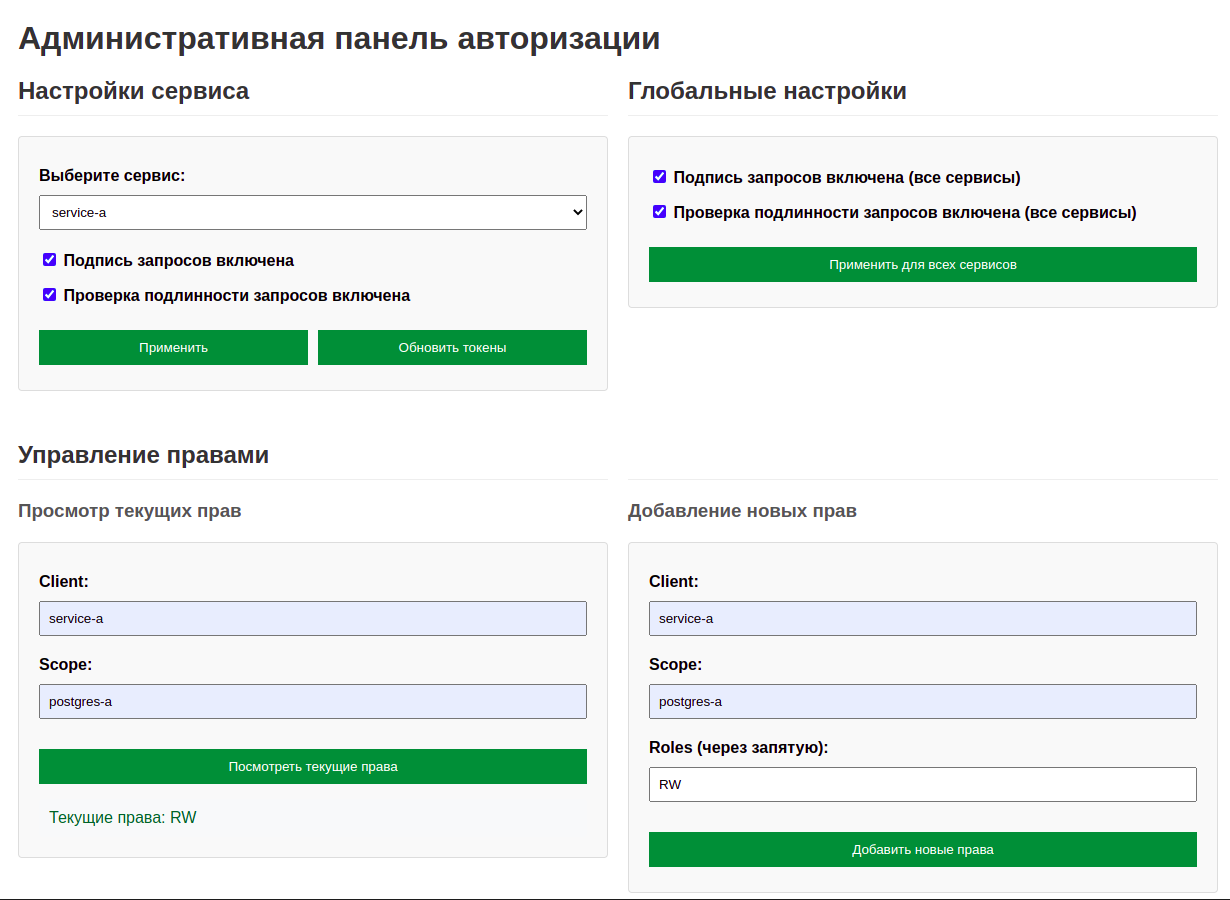
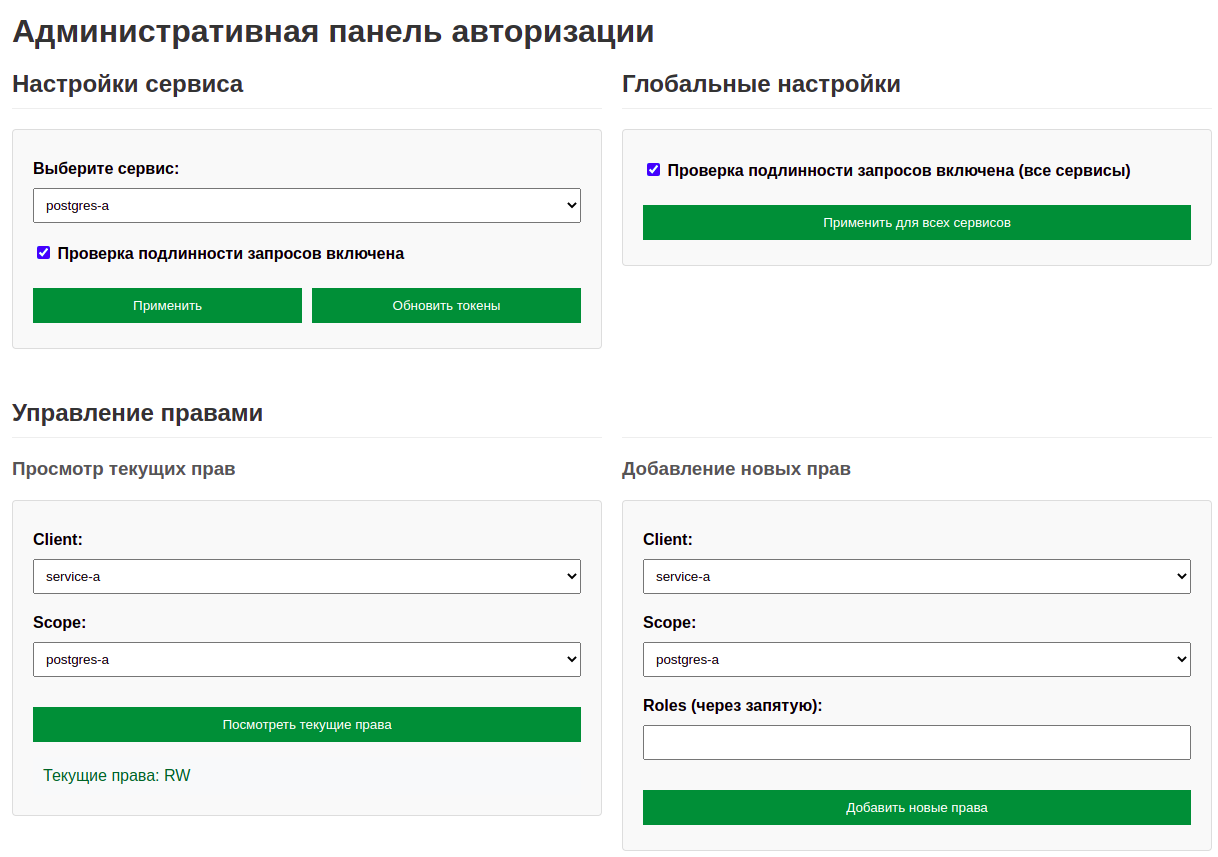
[iter12]: fix ui according to pred-def

diff --git a/src/auth-ui/templates/index.html b/src/auth-ui/templates/index.html
@@ -143,13 +143,6 @@
 
                     <div class="form-group">
                         <label>
-                            <input type="checkbox" name="sign" {% if sign_enabled %}checked{% endif %}>
-                            Подпись запросов включена
-                        </label>
-                    </div>
-
-                    <div class="form-group">
-                        <label>
                             <input type="checkbox" name="verify" {% if verify_enabled %}checked{% endif %}>
                             Проверка подлинности запросов включена
                         </label>
@@ -167,13 +160,6 @@
             <div class="section">
                 <h2>Глобальные настройки</h2>
                 <form action="/update_all" method="post">
-                    <div class="form-group">
-                        <label>
-                            <input type="checkbox" name="sign_all" checked>
-                            Подпись запросов включена (все сервисы)
-                        </label>
-                    </div>
-
                     <div class="form-group">
                         <label>
                             <input type="checkbox" name="verify_all" checked>
@@ -195,12 +181,20 @@
                 <form id="permissionsForm">
                     <div class="form-group">
                         <label>Client:</label>
-                        <input type="text" name="client" required>
+                        <select name="client" required>
+                            {% for service in services %}
+                            <option value="{{ service }}">{{ service }}</option>
+                            {% endfor %}
+                        </select>
                     </div>
 
                     <div class="form-group">
                         <label>Scope:</label>
-                        <input type="text" name="scope" required>
+                        <select name="scope" required>
+                            {% for service in services %}
+                            <option value="{{ service }}">{{ service }}</option>
+                            {% endfor %}
+                        </select>
                     </div>
 
                     <button type="button" onclick="getPermissions()">Посмотреть текущие права</button>
@@ -216,12 +210,20 @@
                 <form id="updatePermissionsForm">
                     <div class="form-group">
                         <label>Client:</label>
-                        <input type="text" name="client" required>
+                        <select name="client" required>
+                            {% for service in services %}
+                            <option value="{{ service }}">{{ service }}</option>
+                            {% endfor %}
+                        </select>
                     </div>
 
                     <div class="form-group">
                         <label>Scope:</label>
-                        <input type="text" name="scope" required>
+                        <select name="scope" required>
+                            {% for service in services %}
+                            <option value="{{ service }}">{{ service }}</option>
+                            {% endfor %}
+                        </select>
                     </div>
 
                     <div class="form-group">
@@ -276,7 +278,6 @@
             fetch(`/settings?service=${service}`)
                 .then(response => response.json())
                 .then(data => {
-                    document.querySelector('input[name="sign"]').checked = data.sign;
                     document.querySelector('input[name="verify"]').checked = data.verify;
                 });
         }

diff --git a/src/auth-ui/app.py b/src/auth-ui/app.py
@@ -11,19 +11,18 @@ v1 = client.CoreV1Api()
 SERVICES = os.getenv("SERVICES", "service-a,service-b,postgres-a,postgres-b").split(',')
 
 # Кэш для хранения текущих настроек
-settings_cache = {service: {"sign": True, "verify": True} for service in SERVICES}
+settings_cache = {service: {"verify": True} for service in SERVICES}
 
 IDP_SERVICE_URL = "http://idp.idp.svc.cluster.local:80"
 
 def fetch_current_settings(service):
     try:
         cm = v1.read_namespaced_config_map("auth-settings", service)
-        sign_enabled = cm.data.get("SIGN_AUTH_ENABLED", "true") == "true"
         verify_enabled = cm.data.get("VERIFY_AUTH_ENABLED", "true") == "true"
-        return sign_enabled, verify_enabled
+        return verify_enabled
     except Exception as e:
         app.logger.error(f"Error fetching settings for {service}: {str(e)}")
-        return True, True
+        return True
 
 @app.route('/refresh_tokens', methods=['POST'])
 def refresh_tokens():
@@ -49,15 +48,12 @@ def refresh_tokens():
 def index():
     try:
         selected_service = request.args.get('service', SERVICES[0])
-        app.logger.info(f"Fetching settings for: {selected_service}")
-        sign_enabled, verify_enabled = fetch_current_settings(selected_service)
-        app.logger.info(f"Settings: sign={sign_enabled}, verify={verify_enabled}")
+        verify_enabled = fetch_current_settings(selected_service)
 
         return render_template(
             'index.html',
             services=SERVICES,
             selected_service=selected_service,
-            sign_enabled=sign_enabled,
             verify_enabled=verify_enabled,
             message=request.args.get('message', '')
         )
@@ -68,26 +64,21 @@ def index():
 @app.route('/settings')
 def get_settings():
     service = request.args.get('service', SERVICES[0])
-    sign_enabled, verify_enabled = fetch_current_settings(service)
-    return jsonify({
-        "sign": sign_enabled,
-        "verify": verify_enabled
-    })
+    verify_enabled = fetch_current_settings(service)
+    return jsonify({"verify": verify_enabled})
 
 @app.route('/update', methods=['POST'])
 def update():
     service = request.form['service']
-    sign = request.form.get('sign') == 'on'
     verify = request.form.get('verify') == 'on'
 
     try:
         # Обновляем ConfigMap
         cm = v1.read_namespaced_config_map("auth-settings", service)
-        cm.data["SIGN_AUTH_ENABLED"] = str(sign).lower()
         cm.data["VERIFY_AUTH_ENABLED"] = str(verify).lower()
         v1.replace_namespaced_config_map("auth-settings", service, cm)
 
-        notify_sidecars(service, sign, verify)
+        notify_sidecars(service, verify)
 
         return redirect(url_for('index', service=service, message=f"Настройки авторизации для {service} успешно применены."))
     except Exception as e:
@@ -95,18 +86,16 @@ def update():
 
 @app.route('/update_all', methods=['POST'])
 def update_all():
-    sign = request.form.get('sign_all') == 'on'
     verify = request.form.get('verify_all') == 'on'
 
     try:
         for service in SERVICES:
             # Обновляем ConfigMap для каждого сервиса
             cm = v1.read_namespaced_config_map("auth-settings", service)
-            cm.data["SIGN_AUTH_ENABLED"] = str(sign).lower()
             cm.data["VERIFY_AUTH_ENABLED"] = str(verify).lower()
             v1.replace_namespaced_config_map("auth-settings", service, cm)
 
-            notify_sidecars(service, sign, verify)
+            notify_sidecars(service, verify)
 
         return redirect(url_for('index', message="Глобальные настройки авторизации для всех сервисов успешно применены."))
     except Exception as e:
@@ -117,7 +106,6 @@ def start_benchmark():
     service = request.args.get('service')
     try:
         data = request.get_json()
-        # data['use_direct'] = True
 
         pods = v1.list_namespaced_pod(namespace=service, label_selector=f"app={service}")
 
@@ -161,7 +149,6 @@ def stop_benchmark():
             service_pod = pods.items[0]
         else:
             print('no pod in namespace=', service)
-
 
         if not service_pod:
             return jsonify({
@@ -219,12 +206,12 @@ def update_permissions():
     except Exception as e:
         return jsonify({"error": str(e)}), 500
 
-def notify_sidecars(service, sign, verify):
+def notify_sidecars(service, verify):
     pods = v1.list_namespaced_pod(namespace=service, label_selector=f"app={service}")
 
     for pod in pods.items:
         try:
-            data = {"sign": sign, "verify": verify}
+            data = {"verify": verify}
             requests.post(
                 f"http://{pod.status.pod_ip}:8080/reload_config",
                 json=data,
